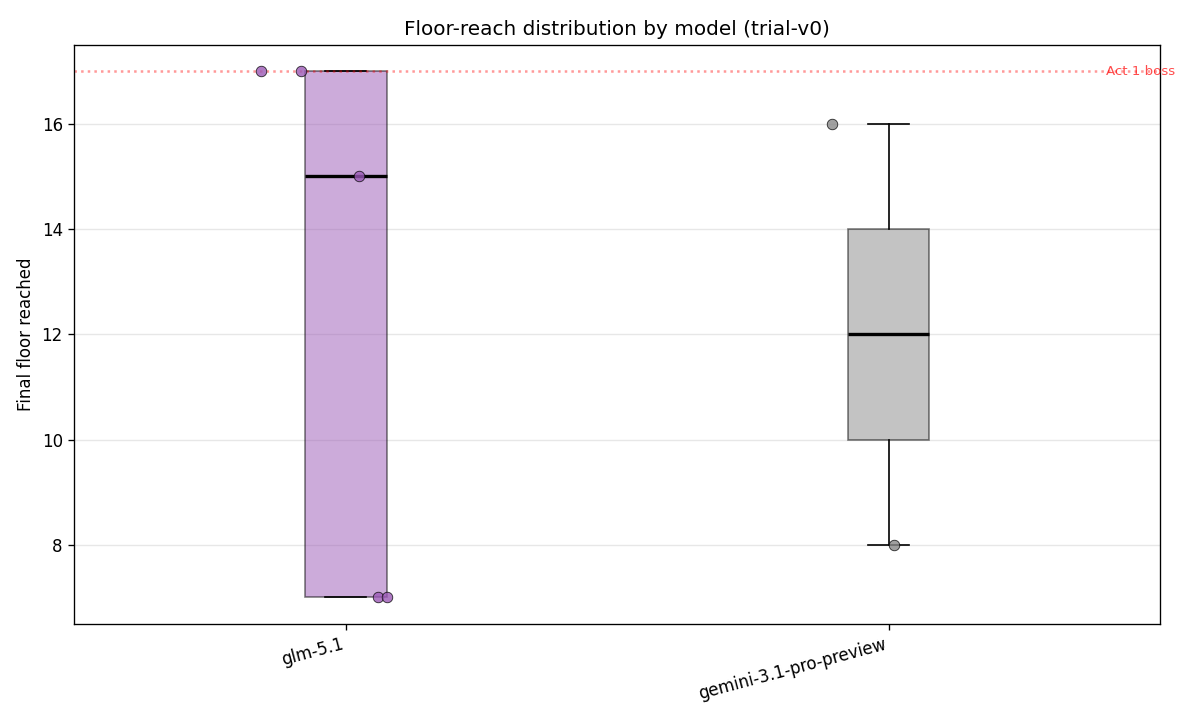
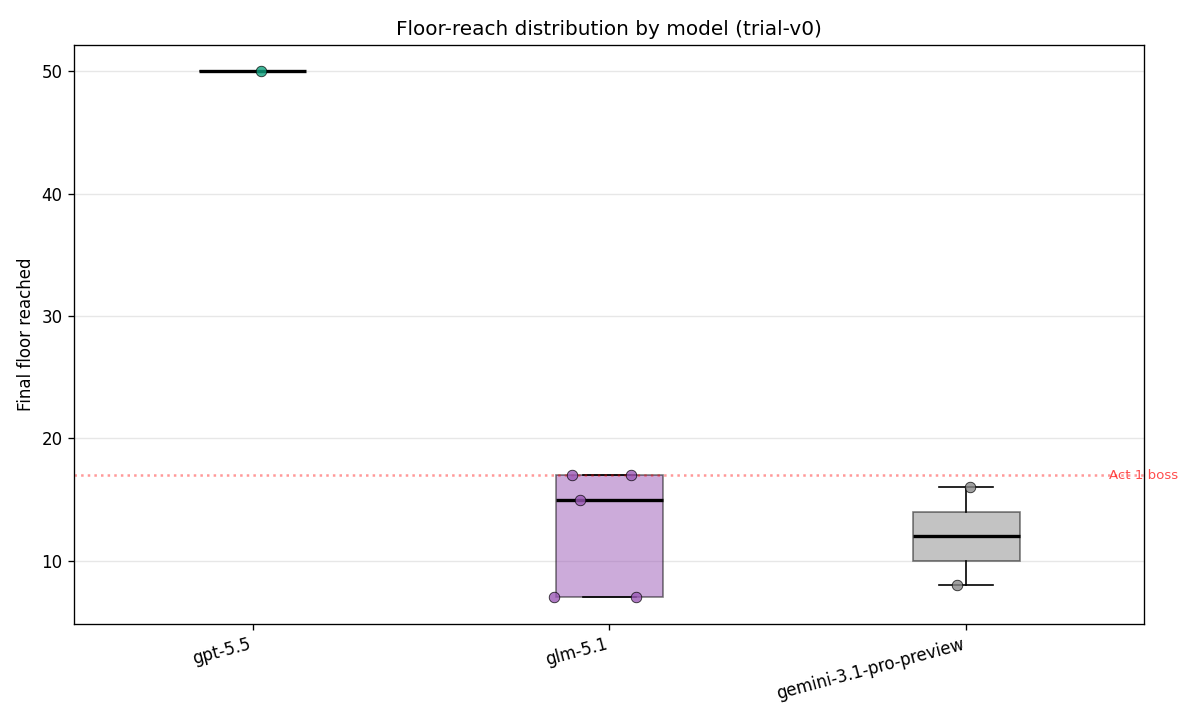
trial-v0.4 amendment + run11 archival (gpt-5.5 IRONCLAD, act3_boss death)
Run11 reached the act3 boss and died on Test Subject #C14 phase 3 at
floor 50 after a strong Sozu/Bronze Scales/Feed deck carried Acts 1-2.
The OpenCode session paused for ~147.6 minutes between floor 43 and
floor 44 (and ~55.7 min between floor 42 and 43) due to GitHub Copilot
provider rate limiting, then resumed without operator intervention and
completed the run normally. This is mechanically distinct from an
agent_stall (terminal) and the trial-v0.3 taxonomy did not cover it.

trial-v0.4 amendment formalises rate_limit_pause as a non-terminal
provider pause that the agent recovers from on its own:

- agent_stall: 120s no step_finish, agent will not resume. Terminal.
- rate_limit_pause: provider has paused tokens; session is alive and
  will resume when rate-limit clears. Non-terminal. Recorded in
  Notes for maintainers with pause duration + floor range. halt_reason
  is whatever the run actually ended on (death/victory), not
  rate_limit. wall_seconds includes the pause and is flagged as
  not directly comparable to runs without one.
- Run07 (gemini SILENT, 0 tokens / 50 step_finish / 3500s) reclassif-
  ication deferred — without provider-side telemetry it is not
  possible to retrospectively tell agent_stall from unrecoverable
  rate_limit_pause. Future gemini retries for the unfilled DEFECT and
  NECROBINDER cells should monitor for the same pattern.
- Run-id numbering policy clarified: gaps are fine. run09 and run10
[…]

diff --git a/docs/benchmark/protocol.md b/docs/benchmark/protocol.md
@@ -172,9 +172,9 @@ For the v0 trial, runs are configured along these axes:
 | **Knowledge condition** | `A0-zero-shot` (only) |
 | **Seed** | unseeded (game default — record the run-seed if exposed in `state.run`) |
 | **Run-cap (commands)** | `500` |
-| **Stall threshold** | `bridge_stall`: 30s no revision change after a command. `agent_stall`: 120s no `step_finish` event from the OpenCode session despite an actionable game state. Both halt the run as `halt_reason: stall`. |
-| **Halt conditions** | `GameOver`, `Victory`, run-cap reached, 5 consecutive `status=error` on distinct commands, stall, **rate-limit from model provider**, manual abort by operator |
-| **Mid-run model rotation** | **Prohibited.** If the assigned model rate-limits or fails mid-run, the operator halts and logs `halt_reason: rate_limit`. Do **not** swap to a fallback model and continue — the run is over. |
+| **Stall threshold** | `bridge_stall`: 30s no revision change after a command. `agent_stall`: 120s no `step_finish` event from the OpenCode session despite an actionable game state. Both halt the run as `halt_reason: stall`. Provider rate-limit pauses where the agent resumes without operator intervention are tracked separately as `rate_limit_pause` and are **not** terminal — see trial-v0.4 amendment. |
+| **Halt conditions** | `GameOver`, `Victory`, run-cap reached, 5 consecutive `status=error` on distinct commands, stall, **terminal rate-limit from model provider** (session does not resume — `halt_reason: rate_limit`), manual abort by operator |
+| **Mid-run model rotation** | **Prohibited.** If the assigned model hard-fails (provider returns terminal error or session does not resume after a reasonable pause) mid-run, the operator halts and logs `halt_reason: rate_limit`. Do **not** swap to a fallback model and continue — the run is over. A non-terminal rate-limit pause where the agent resumes on its own is logged in `## Notes for maintainers` as `rate_limit_pause` with the gap duration; the run continues. |
 | **Session isolation** | One fresh OpenCode session per run (operator pre-flight enforced). No session state, file-system state, or memory store carries between runs. |
 
 Each model is expected to complete **one run per character at A0** for the
@@ -574,3 +574,71 @@ covered: run08 `2026-04-28-gemini-3.1-pro-preview-regent-run08`):
   the trial protocol but bundled into the same commit.
 - No bridge bump, no template bump (`spec_version` stays
   trial-v0.2 — schema unchanged, only operator workflow tightened).
+
+**trial-v0.4** (2026-04-30, after run08 ships and run09-run10 are
+reserved-but-unfilled; first run covered: run11
+`2026-04-30-gpt-5.5-ironclad-run11`):
+
+- **`rate_limit_pause` formalised as non-terminal.** Run11 exposed
+  a third stall-shaped failure mode that the trial-v0.3 taxonomy
+  did not cover: the GitHub Copilot-hosted gpt-5.5 session paused
+  for ~147.6 minutes between floor 43 and floor 44 (and a separate
+  ~55.7 minute pause between floor 42 and floor 43), then **resumed
+  on its own without operator intervention** and continued to
+  act3_boss death at floor 50. This is mechanically distinct from
+  an `agent_stall`:
+  - `agent_stall`: agent has stopped generating and will not resume
+    on its own; the operator must abandon. Terminal.
+  - `rate_limit_pause`: provider has paused token issuance (rate
+    limiting); the OpenCode session is still alive and will resume
+    once the provider's rate-limit window clears. Non-terminal.
+  The 120s `agent_stall` threshold remains correct for declaring
+  a run dead in real-time. After 120s of no `step_finish`, the
+  operator opens the OpenCode session and inspects: if the session
+  shows a provider rate-limit message and is waiting, that is a
+  `rate_limit_pause` and the operator **does not abandon**; if the
+  session shows no progress and no rate-limit indicator, that is
+  an `agent_stall` and is terminal per trial-v0.3.
+- **Recording.** A `rate_limit_pause` is recorded in
+  `## Notes for maintainers` of the run record with: pause
+  duration, floor range over which it occurred, and a note that
+  `wall_seconds` includes the pause. The `halt_reason` is whatever
+  the run actually ended on (typically `death` or `victory`),
+  **not** `rate_limit`. There is no separate halt_reason value for
+  pauses that resolved.
+- **Analysis impact.** `wall_seconds` for runs containing a
+  `rate_limit_pause` is not directly comparable to runs without
+  one. Analysis tooling and the trial summary should flag affected
+  runs and exclude them from wall-clock means or report a
+  pause-corrected wall-time alongside the raw value. Token counts,
+  step_finish counts, and gameplay metrics are unaffected and
+  remain comparable.
+- **Run07 reclassification deferred.** Run07
+  (`gemini-3.1-pro-preview-silent`, 0 tokens, 50 step_finish in
+  3500s) is currently labelled `halt_reason: death` but exhibits
+  pause-shaped data. Without provider-side telemetry it is not
+  possible to retrospectively determine whether the gemini stall
+  was a terminal `agent_stall` or an unrecoverable
+  `rate_limit_pause` (where the provider pause exceeded the
+  operator's patience). Run07 is left as-is; future gemini retries
+  for the unfilled DEFECT and NECROBINDER cells should monitor
+  for the same pattern.
+- **Numbering policy clarified.** Run-id numbering does **not**
+  need to be contiguous. Run09 and run10 remain reserved for the
+  gemini DEFECT and NECROBINDER cells, planned as retries after
+  the rest of the lineup completes. If gemini cannot complete
+  those runs, the slots stay vacant or are filled by a different
+  model with the run-id renumbered accordingly. Pandas/charts
+  treat run-id as a string key; gaps are inert.
+- **Run11 protocol violation noted.** Run11's agent had MemPalace
+  and sub-agent tools exposed during the session, contrary to the
+  benchmark's tool restriction. The run record's
+  `## Notes for maintainers` flags this. Operators should verify
+  `opencode.benchmark.json` is the active config before pre-flight.
+  Run11 is preserved in the dataset because the gameplay decision
+  log shows no spire2-specific external knowledge retrieval; the
+  violation is a tool-exposure issue, not a knowledge-condition
+  contamination.
+- No bridge bump, no template bump (`spec_version` stays
+  trial-v0.2 — schema unchanged, only operator workflow and
+  taxonomy clarified).

diff --git a/docs/benchmark/runs/2026-04-30-gpt-5.5-ironclad-run11.md b/docs/benchmark/runs/2026-04-30-gpt-5.5-ironclad-run11.md
@@ -1,0 +1,67 @@
+---
+run_id: 2026-04-30-gpt-5.5-ironclad-run11
+spec_version: trial-v0.2
+knowledge_condition: A0-zero-shot
+bridge_version: v0.1.5
+game_version: 0.104.0
+model: gpt-5.5
+model_provider: github-copilot
+opencode_session_id: ses_220d56643ffeR9ZjhYT96G0t4n
+character: IRONCLAD
+ascension: 0
+seed: 2632971163234046270
+start_time_utc: 2026-04-30T16:18:00Z
+end_time_utc: 2026-04-30T22:20:52Z
+duration_minutes: 362
+command_count: null
+ipc_error_count: 6
+stall_count: 0
+halt_reason: death
+death_floor: 50
+death_screen: MainMenu
+death_cause: Test Subject #C14
+victory_floor: null
+boss_reached: act3_boss
+final_hp: 0
+final_gold: 269
+tokens_in: 5545628
+tokens_out: 120263
+tokens_cache_read: 181315584
+tokens_cache_write: 0
+tokens_reasoning: 35662
+tokens_total: 187017137
+cost_usd: 0.0000
+wall_seconds: 22085
+step_finish_count: 1386
+---
+
+## Summary
+
+The Ironclad run reached the Act 3 boss, Test Subject #C14, after a strong Act 1 and Act 2 with `Sozu`, `Bronze Scales`, `Kifuda`, `Jeweled Mask`, and repeated `Feed` max-HP gains carrying the deck to 97 max HP. The final boss was pushed through its first two `Adaptable` revives, but the third phase's alternating `Nemesis` Intangible turns and heavy attacks outlasted the deck's block density. The run ended on the Act 3 boss after entering a turn at 5 HP against a 35-damage attack and only reaching 29 block.
+
+## Bridge findings
+
+- `SkipCardReward` is not a valid command; use `SkipReward` on the card reward position instead.
+- `ChooseMapNode` is not a valid command; use `SelectMapNode` with `col` and `row`.
+- `PlayCard` on `AllEnemies` cards can fail when a `targetIndex` is supplied; replaying without `targetIndex` worked for `Piercing Wail`.
+- `Armaments` opens `handSelect.active=true` in `UpgradeSelect` mode and requires `HandSelectCard` followed by `HandConfirmSelect`.
+- `Taunt` was reported playable while Test Subject #C14 was at 0 HP during a respawn state, but `PlayCard` failed with `TryManualPlay returned false`.
+- `list-rest.ps1` still emits `PropertyNotFoundException` noise for missing option fields while also printing usable rest options.
+- `tools/get-session-tokens.ps1` requires an explicit `SessionId`; token and cost fields were left null because no session id was available.
+- Protocol/tooling violation: forbidden tools were exposed and MemPalace was invoked earlier in the run despite the benchmark constraint against MemPalace/sub-agent use.
+
+## Decision log highlights
+
+- **Neow:** Chose the Arcane Scroll rare-card start, which enabled early scaling and carried the deck through Act 1.
+- **Act 1 boss:** Defeated Ceremonial Beast and took `Sozu` as the boss relic, accepting potion lockout for energy.
+- **Act 2 boss:** Defeated Knowledge Demon, chose forced `Disintegration` statuses, and took `Feed` for long-run max-HP scaling.
+- **Act 3 pathing:** Avoided the late Act 3 elite line, took a rest before the boss, and entered Test Subject #C14 at full 97/97 HP.
+- **Card rewards:** Skipped late Frog Knight card reward to avoid diluting the deck before the boss.
+- **Final boss:** Prioritized Weak/Vulnerable and block through the first two phases; survived phase 2 with `Colossus+` and block cards, but the final `Nemesis` phase depleted HP before enough damage could be dealt.
+
+## Notes for maintainers
+
+- **Rate-limit pause:** Provider stalled for ~147.6 minutes between floor 43 and floor 44 (2026-04-30T19:19:44Z → 21:47:23Z), and a further ~55.7 minutes between floor 42 and floor 43. Agent resumed without operator intervention or context loss and continued to act3_boss. This is a `rate_limit_pause` per trial-v0.4 amendment, not an `agent_stall`. `wall_seconds` of 22085 includes the pauses; analysis tooling should treat this run with caveat when comparing wall-clock metrics.
+- **Protocol violation:** MemPalace and sub-agent tools were exposed to and used by the agent earlier in the run, contrary to the benchmark constraint forbidding non-bridge tooling. Decisions and gameplay still appear consistent with A0-zero-shot (no spire2-specific knowledge retrieved), but the violation is recorded for transparency. Future runs should verify `opencode.benchmark.json` is the active config before starting.
+- **Floor-history snapshot count (48) vs death_floor (50):** Bridge snapshots fire at floor entry; some intermediate floors were not captured. Agent-reported `death_floor: 50` reflects the in-game floor counter, not JSONL row count.
+- The benchmark protocol should make clear how to record `command_count`, token fields, and exact start time when a run spans compaction or when the OpenCode session id is not exposed to the agent.

diff --git a/docs/benchmark/trial-v0-summary.md b/docs/benchmark/trial-v0-summary.md
@@ -5,15 +5,16 @@ re-run the script after appending new runs to `runs.csv`._
 
 ## Overview
 
-- Total runs: **8** (with run records: 8)
-- Halt reasons: death=7, stall=1
-- Models tested: gemini-3.1-pro-preview, glm-5.1
+- Total runs: **9** (with run records: 9)
+- Halt reasons: death=8, stall=1
+- Models tested: gemini-3.1-pro-preview, glm-5.1, gpt-5.5
 - Characters: DEFECT, IRONCLAD, NECROBINDER, REGENT, SILENT
 
 ## Per-model results
 
 | model | runs | victories | deaths | rate_limits | median_floor | max_floor | mean_tokens_total | mean_cost_usd | mean_wall_seconds |
 | --- | --- | --- | --- | --- | --- | --- | --- | --- | --- |
+| gpt-5.5 | 1 | 0 | 1 | 0 | 50.00 | 50.00 | 187017137 | 0.00 | 22085 |
 | glm-5.1 | 5 | 0 | 5 | 0 | 15.00 | 17.00 | 31671320 | 0.00 | 6181 |
 | gemini-3.1-pro-preview | 3 | 0 | 2 | 0 | 12.00 | 16.00 | 19031863 | 0.00 | 3644 |
 
@@ -22,7 +23,7 @@ re-run the script after appending new runs to `runs.csv`._
 
 | character | runs | victories | median_floor | max_floor |
 | --- | --- | --- | --- | --- |
-| IRONCLAD | 2 | 0 | 15.50 | 16.00 |
+| IRONCLAD | 3 | 0 | 16.00 | 50.00 |
 | SILENT | 2 | 0 | 12.50 | 17.00 |
 | DEFECT | 1 | 0 | 17.00 | 17.00 |
 | REGENT | 2 | 0 | 7.00 | 7.00 |
